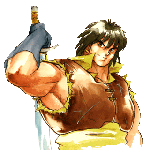
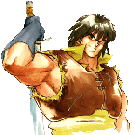
adjust image textbox and add show/hide interface

diff --git a/src/main.c b/src/main.c
@@ -22,6 +22,7 @@ static Character** vectorCharsGen(int option, int **pos, Map *map);
 int modeCursor = 0;
 int gameover   = 0;
 int showGrid   = 0;
+int showInterface = 1;
 
 int main(int argc, char **argv)
 {
@@ -148,7 +149,8 @@ int main(int argc, char **argv)
 		MapDraw(map, screen);
 
 		// Draw interface
-		InterfaceDraw(interface, screen);
+		if(showInterface)
+			InterfaceDraw(interface, screen);
 
 		// Update the screen 
 		//SDL_UpdateRect(screen, 0, 0, 0, 0);
@@ -225,6 +227,12 @@ void HandleEvent(SDL_Event event, SDL_Surface* screen, Game *game, Cursor* curso
 					break;
 				case SDLK_a:
 					CharacterSetAttack(game->actualCharacter);
+					break;
+				case SDLK_i:
+					if (showInterface == 1)
+						showInterface = 0;
+					else
+						showInterface = 1;
 					break;
 				case SDLK_f:
 					if(cursor->free){

diff --git a/src/textbox.c b/src/textbox.c
@@ -67,16 +67,16 @@ Textbox *TextboxConstructor(char *name ,int x, int y, int w, int h, char **text,
 	if(image){
 		rcSrcImg.x = 0;
 		rcSrcImg.y = 0;
-		rcSrcImg.w = 150;
-		rcSrcImg.h = 150;
-		rcDestImg.x = 0;
-		rcDestImg.y = 0;
+		rcSrcImg.w = 135;
+		rcSrcImg.h = 135;
+		rcDestImg.x = 10;
+		rcDestImg.y = 5;
 		if(!(textbox->image = loadImage(image))){
 			printf("Text Box constructor ERROR: impossible load %s\n", image);
 			return NULL;
 		}
 		
-		overSurface(textbox->image, &rcSrcImg, textbox->background, &rcDestImg, 150);
+		overSurface(textbox->image, &rcSrcImg, textbox->background, &rcDestImg, 135);
 	}
 
 	// Set text
